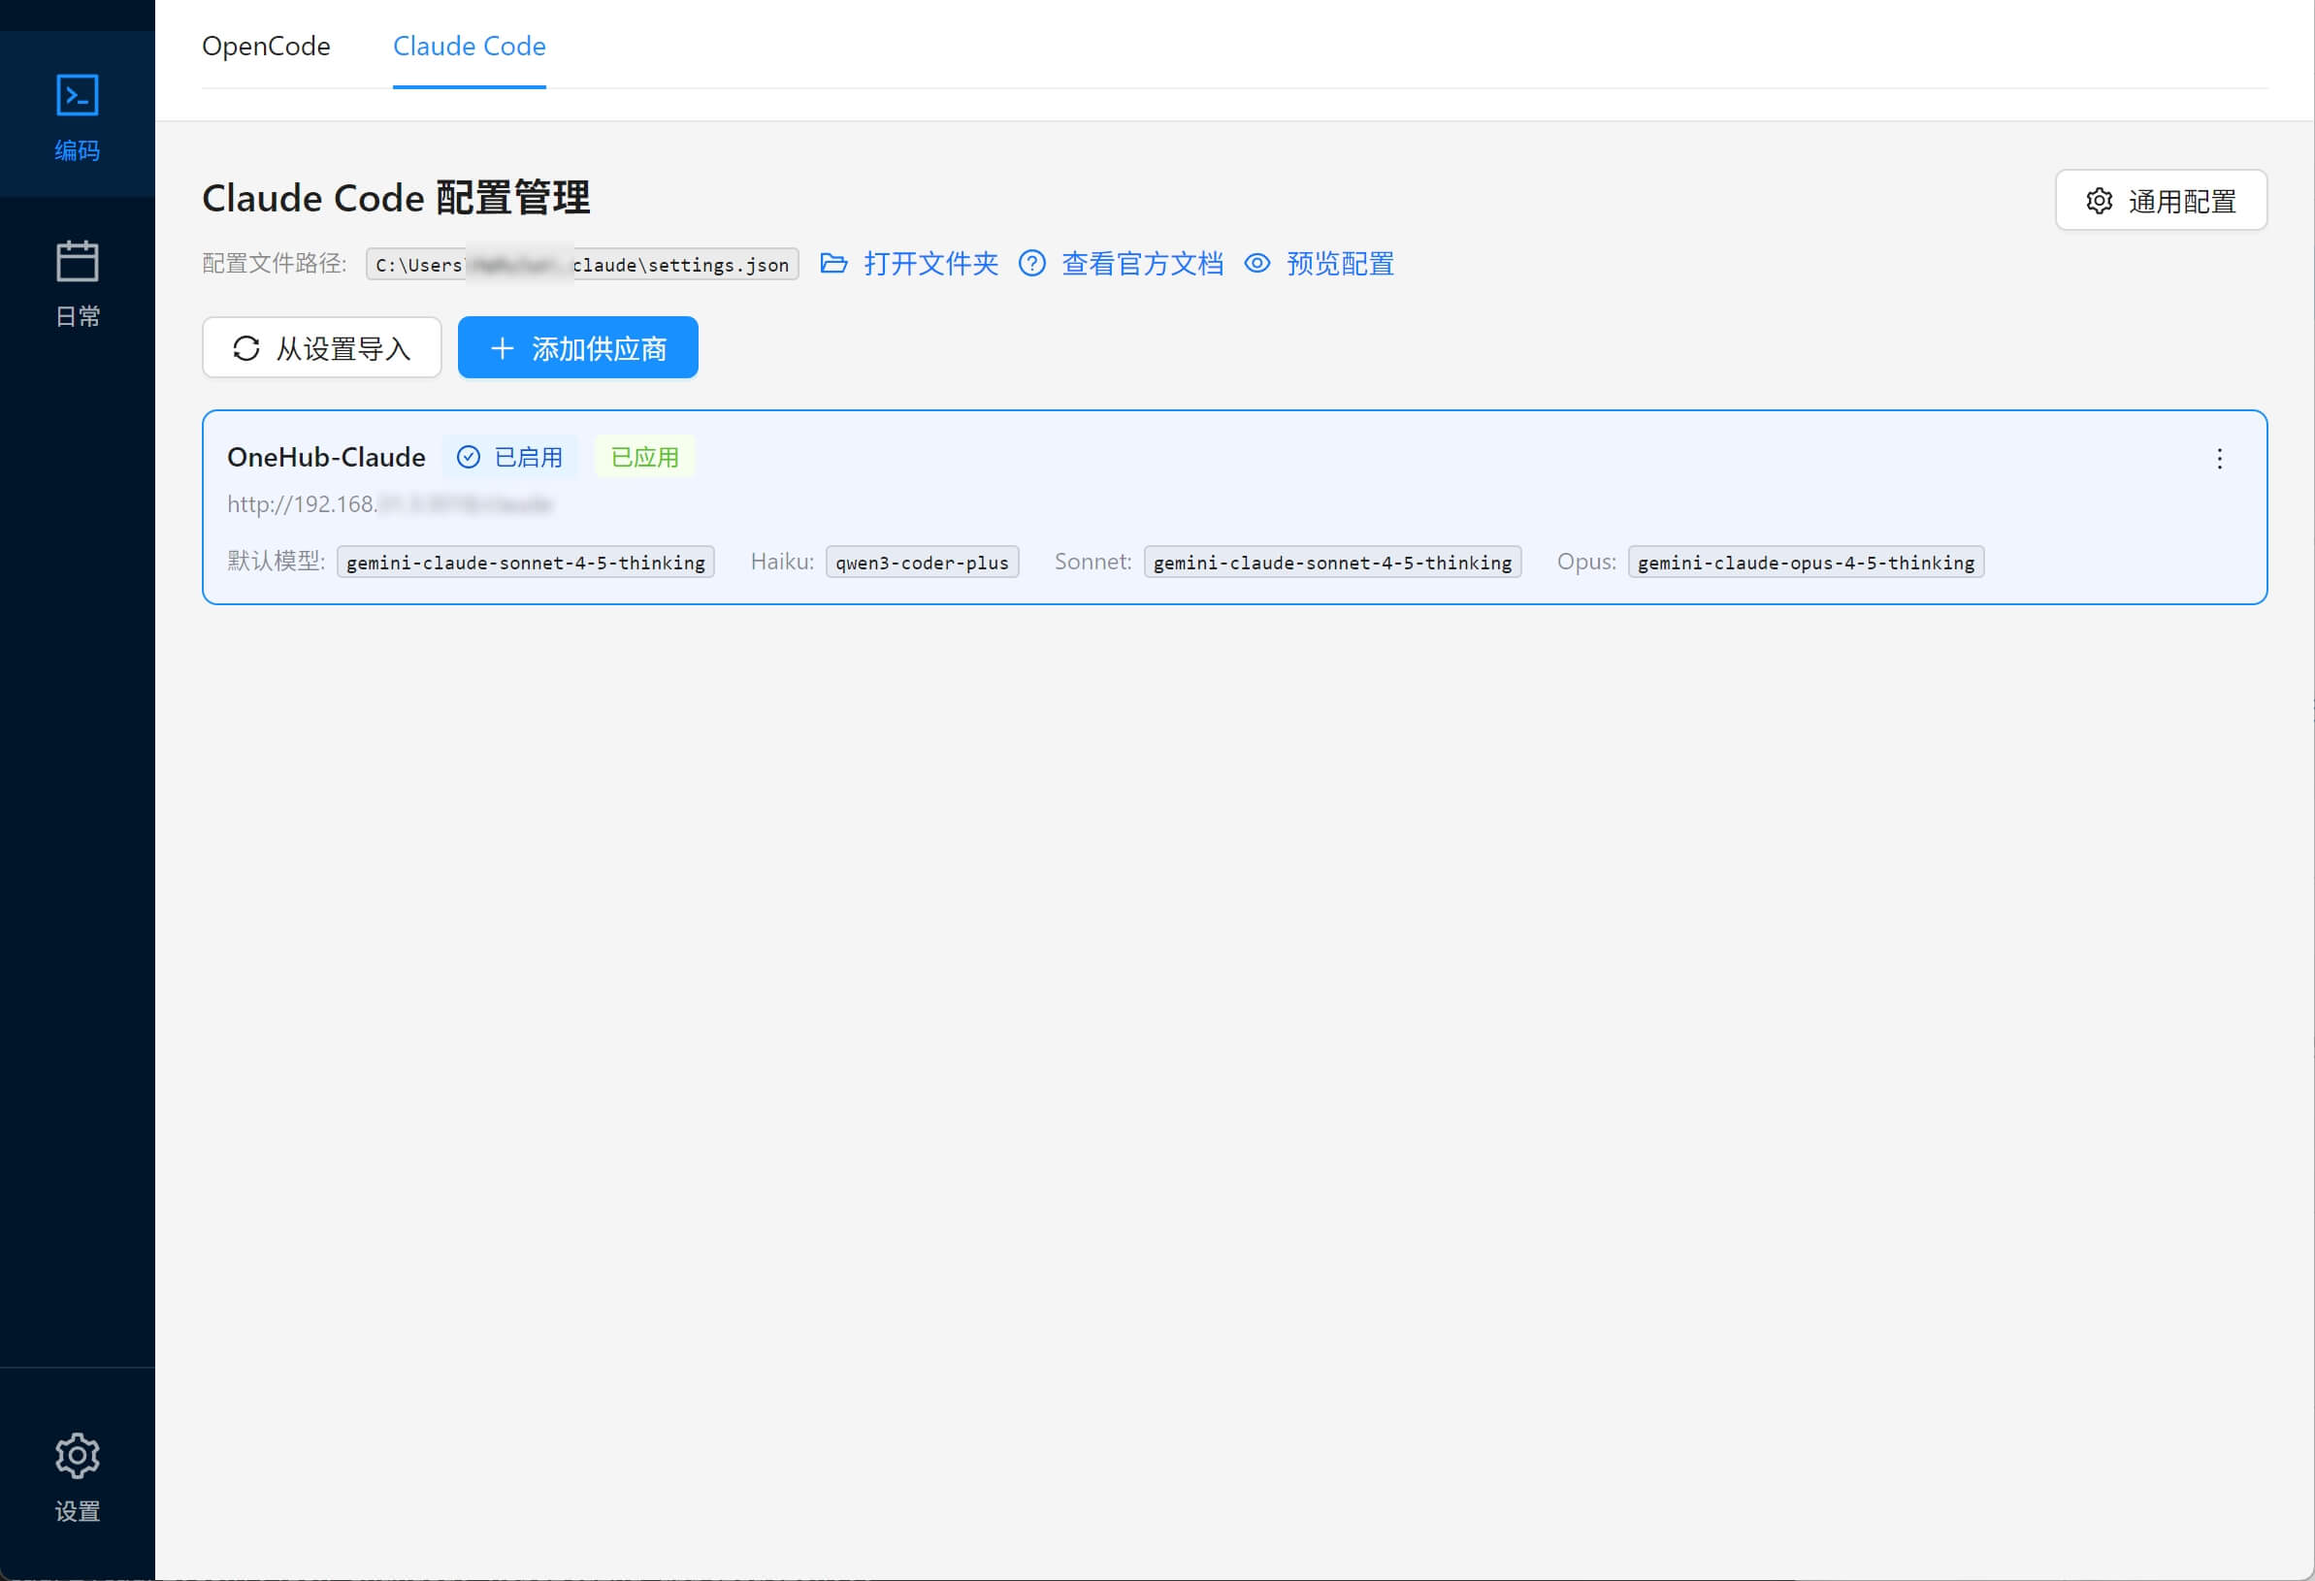
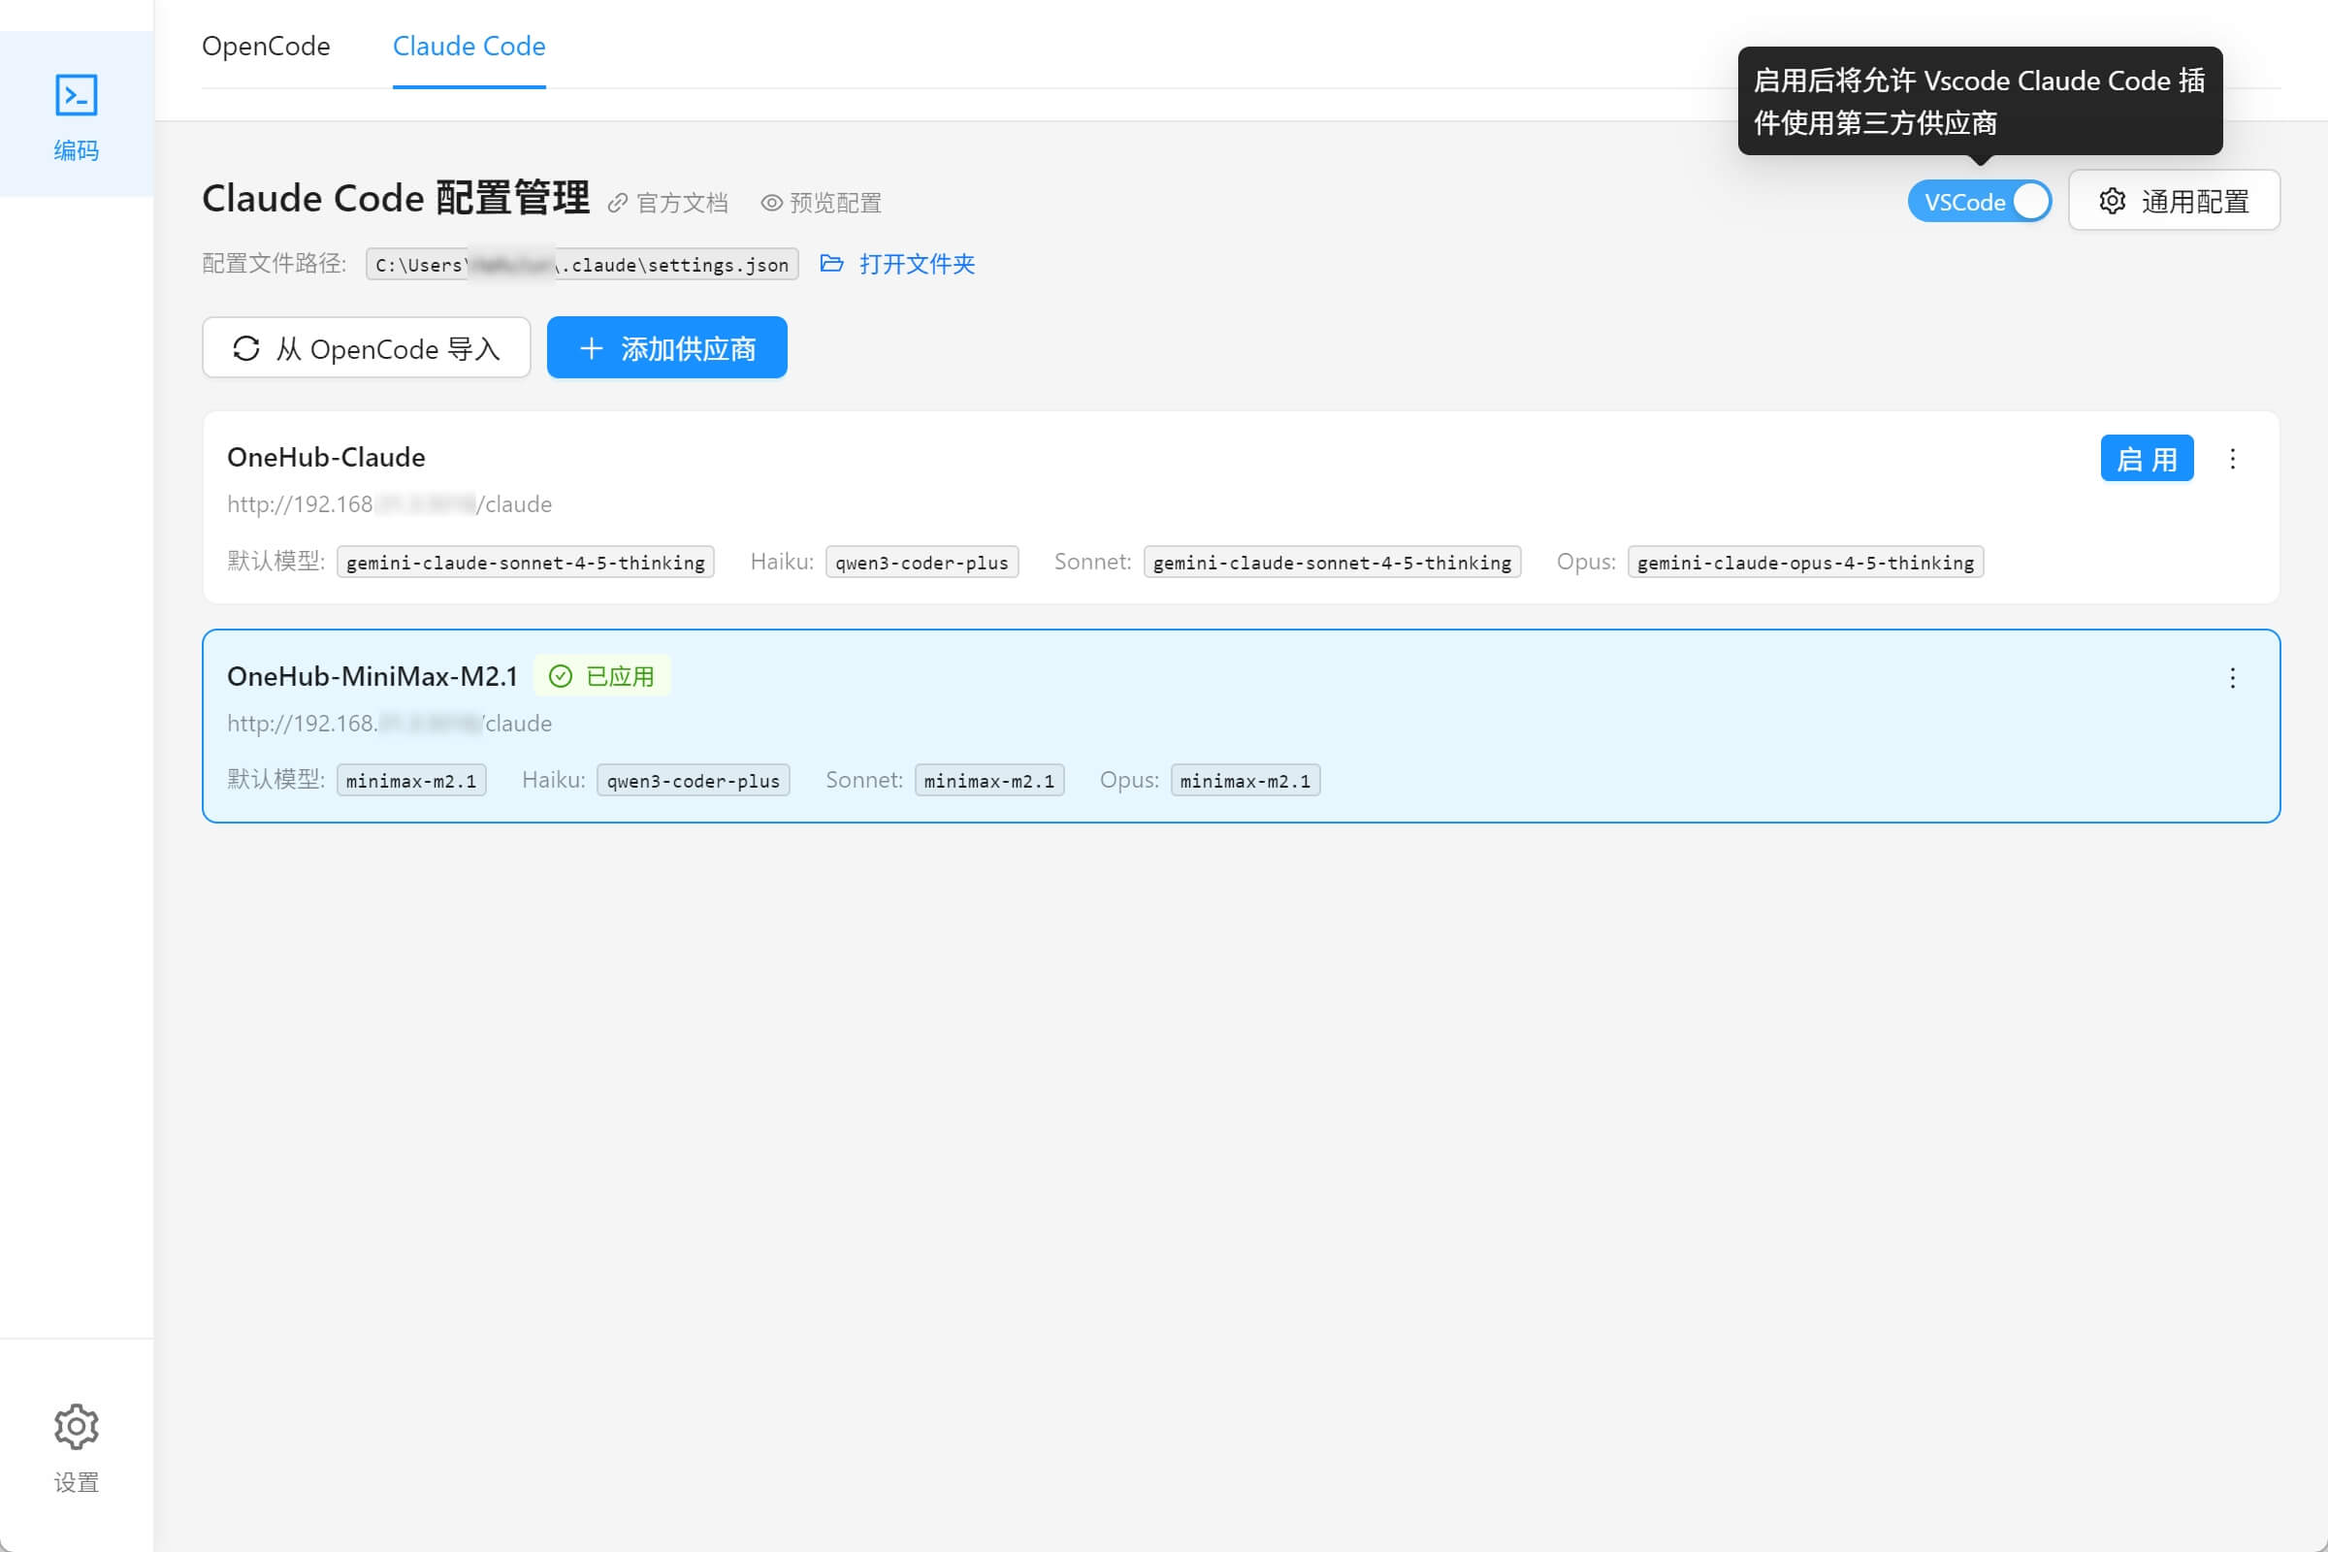
feat: 添加 Oh-My-OpenCode 插件配置管理功能，更新截图
Original-Commit: 1c120bbf116b0f7f65d426aac9d9b28b18f4ec45

diff --git a/README.md b/README.md
@@ -29,6 +29,7 @@ AI Toolbox 是一个跨平台桌面应用，旨在帮助开发者高效管理各
 ### 主要功能
 
 - **OpenCode 配置管理** - 可视化管理 OpenCode 的供应商和模型配置
+- **Oh-My-OpenCode 插件配置管理** - 可视化管理 Oh-My-OpenCode 插件的配置
 - **Claude Code 配置管理** - 一键切换 Claude Code 的 API 供应商配置
 - **供应商管理** - 统一管理多个 AI 供应商（OpenAI、Anthropic、自定义代理等）
 - **数据备份** - 支持本地备份和 WebDAV 云端备份
@@ -38,9 +39,11 @@ AI Toolbox 是一个跨平台桌面应用，旨在帮助开发者高效管理各
 ## 截图
 
 <p align="center">
-  <img src="docs/screenshots/app_screenshot_opencode.jpg" alt="OpenCode 配置管理" width="80%">
+  <img src="docs/screenshots/app_screenshot_opencode_model.jpg" alt="OpenCode和Oh-My-OpenCode 插件配置管理" width="80%">
+  <img src="docs/screenshots/app_screenshot_opencode_provider.jpg" alt="OpenCodeOh-My-OpenCode 插件配置管理" width="80%">
+  <img src="docs/screenshots/app_screenshot_opencode_tray.jpg" alt="系统托盘快速切换配置" width="30%">
   <br>
-  <em>OpenCode 配置管理</em>
+  <em>OpenCode和Oh-My-OpenCode 插件配置管理</em>
 </p>
 
 <p align="center">
